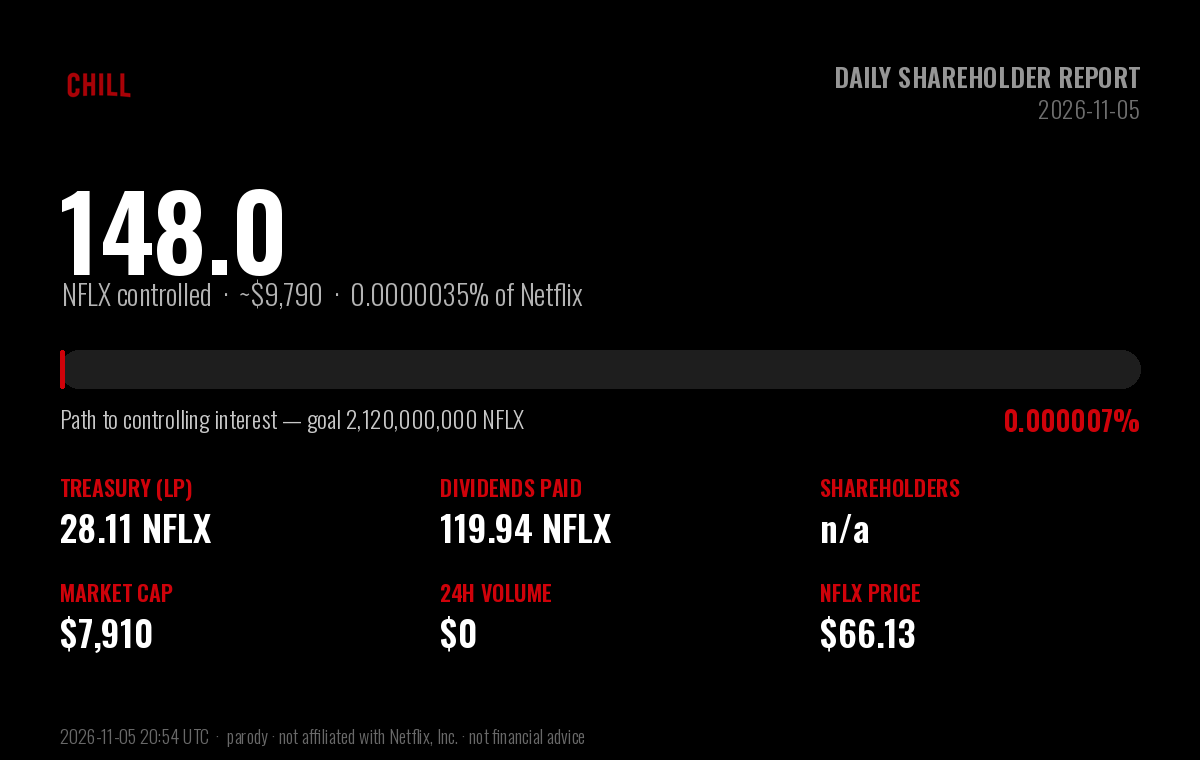
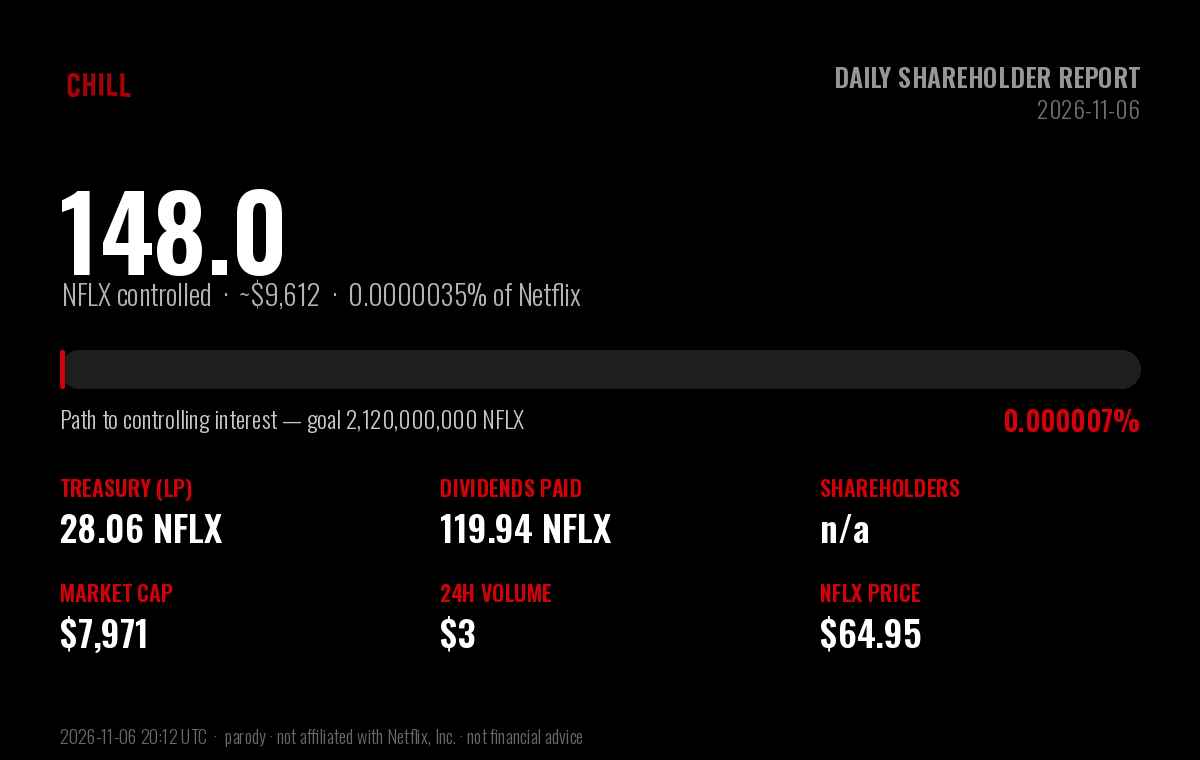
chore: daily $CHILL shareholder report (2026-11-06)

diff --git a/daily-holder-report/README.md b/daily-holder-report/README.md
@@ -1,6 +1,6 @@
 # $CHILL — Daily Shareholder Report
 
-### Netflix and Chill · Report to Shareholders · 2026-11-05
+### Netflix and Chill · Report to Shareholders · 2026-11-06
 
 > **Corporate objective:** acquire a controlling interest in Netflix (NFLX).
 > Netflix has **4,220,000,000** shares outstanding; a majority
@@ -13,8 +13,8 @@
 
 | Metric | Value |
 |---|---|
-| **NFLX under $CHILL control** | **148.05 NFLX** (~$9,790) |
-| Stake in Netflix | 0.000003508% of shares outstanding |
+| **NFLX under $CHILL control** | **148.00 NFLX** (~$9,612) |
+| Stake in Netflix | 0.000003507% of shares outstanding |
 | Progress to controlling interest | 0.0000070% of 2,120,000,000 |
 | Shares remaining to majority | 2,119,999,852 NFLX |
 
@@ -22,19 +22,19 @@
 
 | Holding | NFLX | USD |
 |---|---|---|
-| Treasury (protocol-owned liquidity) | 28.11 | $1,859 |
-| Dividends distributed to shareholders | 119.94 | $7,932 |
-| **Total NFLX controlled** | **148.05** | **$9,790** |
+| Treasury (protocol-owned liquidity) | 28.06 | $1,822 |
+| Dividends distributed to shareholders | 119.94 | $7,790 |
+| **Total NFLX controlled** | **148.00** | **$9,612** |
 
 ## Last 24 hours
 
 | Metric | Value |
 |---|---|
-| Trading volume | 0.00 NFLX (~$0) |
-| Net NFLX accumulated | 0.00 NFLX |
-| Dividends generated | 0.0000 NFLX |
-| Transactions | 0 (0 buys / 0 sells) |
-| $CHILL price change | +0.9% |
+| Trading volume | 0.05 NFLX (~$3) |
+| Net NFLX accumulated | -0.05 NFLX |
+| Dividends generated | 0.0005 NFLX |
+| Transactions | 1 (0 buys / 1 sells) |
+| $CHILL price change | +0.8% |
 
 ## Shareholder & market data
 
@@ -43,23 +43,23 @@
 | Shareholders of record | n/a |
 | Lifetime unique participants | 1828 |
 | Shares outstanding ($CHILL) | 1,000,000,000 |
-| Market capitalization | $7,910 |
-| $CHILL price | $0.00000791 |
-| NFLX price | $66.13 |
-| Lifetime volume | 11,994.02 NFLX (~$793,158) |
-| Lifetime transactions | 8,635 (4,827 buys / 3,808 sells) |
-| Days since IPO (launch) | 109 |
+| Market capitalization | $7,971 |
+| $CHILL price | $0.00000797 |
+| NFLX price | $64.95 |
+| Lifetime volume | 11,994.06 NFLX (~$779,007) |
+| Lifetime transactions | 8,636 (4,827 buys / 3,809 sells) |
+| Days since IPO (launch) | 110 |
 
 ## Per-share metrics
 
 | Metric | Value |
 |---|---|
-| NFLX backing per 1M $CHILL | 0.148046 NFLX |
-| Dividends per 1M $CHILL | 0.119940 NFLX |
+| NFLX backing per 1M $CHILL | 0.147998 NFLX |
+| Dividends per 1M $CHILL | 0.119941 NFLX |
 
 ---
 
-*Report generated 2026-11-05 20:54 UTC · block 107,034,344 · data via the Sentry-Robinhood
+*Report generated 2026-11-06 20:12 UTC · block 107,851,665 · data via the Sentry-Robinhood
 subgraph and Robinhood Chain explorer.*
 
 **Disclaimer:** $CHILL is an independent, community-driven **parody** token. It is
